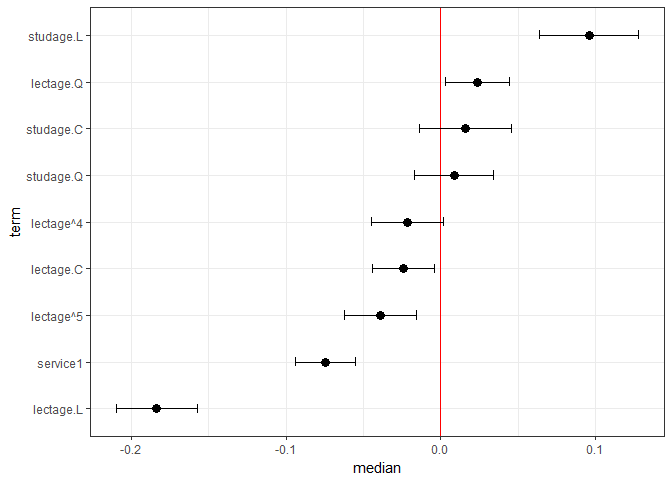
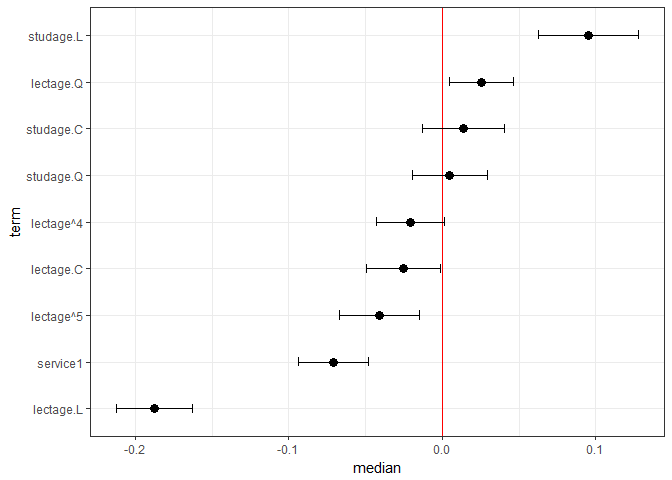
Travis build

diff --git a/README.md b/README.md
@@ -8,8 +8,8 @@ Issues](http://githubbadges.herokuapp.com/jknowles/merTools/issues.svg)](https:/
 Pull-Requests](http://githubbadges.herokuapp.com/jknowles/merTools/pulls.svg?style=flat)](https://github.com/jknowles/merTools/pulls)
 [![CRAN\_Status\_Badge](http://www.r-pkg.org/badges/version/merTools)](https://cran.r-project.org/package=merTools)
 [![Downloads](http://cranlogs.r-pkg.org/badges/merTools)](https://cran.r-project.org/package=merTools)
-<https://cranlogs.r-pkg.org/badges/grand-total/merTools> [![Research
-software
+[![Downloads](http://cranlogs.r-pkg.org/badges/grand-total/merTools)](https://cran.r-project.org/package=merTools)
+[![Research software
 impact](http://depsy.org/api/package/cran/merTools/badge.svg)](http://depsy.org/package/r/merTools)
 
 <!-- README.md is generated from README.Rmd. Please edit that file -->
@@ -146,16 +146,16 @@ standard objects produced by `lm` and
 predictInterval(m1, newdata = InstEval[1:10, ], n.sims = 500, level = 0.9, 
                 stat = 'median')
 #>         fit      upr       lwr
-#> 1  3.228134 5.185694 1.0159918
-#> 2  3.072357 5.158846 1.2301763
-#> 3  3.343040 5.533148 1.3992554
-#> 4  3.102235 5.030169 0.9379611
-#> 5  3.138072 5.292995 1.4315204
-#> 6  3.134039 5.179843 1.0842003
-#> 7  4.217092 6.246719 2.3830875
-#> 8  3.698182 5.664988 1.8109667
-#> 9  3.836403 5.800780 1.7064932
-#> 10 3.325114 5.293382 1.4322462
+#> 1  3.125394 4.979246 1.1166373
+#> 2  3.304650 5.192903 1.2958078
+#> 3  3.421564 5.513007 1.3941391
+#> 4  3.098004 5.018878 0.8932288
+#> 5  3.253312 5.338664 1.1236043
+#> 6  3.199142 5.166880 1.1563780
+#> 7  4.067185 6.313856 1.9312797
+#> 8  3.766062 5.746171 1.7210402
+#> 9  3.744515 5.681148 1.7479590
+#> 10 3.325182 5.357726 1.1783253
 ```
 
 Note that `predictInterval` is slower because it is computing
@@ -176,47 +176,47 @@ interval.
 ``` r
 predictInterval(m1, newdata = InstEval[1:10, ], n.sims = 200, level = 0.9, 
                 stat = 'median', which = "all")
-#>      effect          fit      upr       lwr obs
-#> 1  combined  3.017337597 5.088024  1.024675   1
-#> 2  combined  3.228086300 5.120228  1.358134   2
-#> 3  combined  3.324246517 5.271679  1.494965   3
-#> 4  combined  3.080904426 5.203921  1.335800   4
-#> 5  combined  3.455020453 5.255384  1.791524   5
-#> 6  combined  3.362408634 5.333071  1.337383   6
-#> 7  combined  4.062680211 6.075195  2.249946   7
-#> 8  combined  3.741245572 5.636748  1.900005   8
-#> 9  combined  3.744926075 5.750071  1.965396   9
-#> 10 combined  3.322611479 5.290863  1.293424  10
-#> 11        s  0.346816992 2.520135 -1.949796   1
-#> 12        s  0.235268042 2.169141 -1.515011   2
-#> 13        s  0.189859225 2.211509 -1.647229   3
-#> 14        s  0.149037477 1.915774 -1.542856   4
-#> 15        s  0.015144457 1.718275 -2.051475   5
-#> 16        s -0.036161352 1.840863 -2.028481   6
-#> 17        s  0.325294783 2.180777 -1.580737   7
-#> 18        s  0.309113196 1.957690 -1.624536   8
-#> 19        s  0.361351145 1.988621 -1.606489   9
-#> 20        s  0.336967092 2.284692 -1.432369  10
-#> 21        d -0.228257150 1.743273 -2.069172   1
-#> 22        d -0.004238389 1.729515 -1.747685   2
-#> 23        d -0.021712554 2.091915 -2.118753   3
-#> 24        d -0.167673934 1.733865 -2.253262   4
-#> 25        d  0.092775221 1.788870 -1.811353   5
-#> 26        d  0.119258232 1.933844 -1.880734   6
-#> 27        d  0.877964479 2.272196 -0.993148   7
-#> 28        d  0.149934195 2.220833 -1.626118   8
-#> 29        d  0.026511469 2.025732 -1.661577   9
-#> 30        d -0.323192852 1.716854 -2.160615  10
-#> 31    fixed  3.106300528 5.007124  1.182941   1
-#> 32    fixed  3.287768191 5.076319  1.530694   2
-#> 33    fixed  3.333243653 5.061887  1.557717   3
-#> 34    fixed  3.175918917 4.767824  1.258340   4
-#> 35    fixed  3.440728856 5.260298  1.628944   5
-#> 36    fixed  3.267695980 5.016296  1.534028   6
-#> 37    fixed  3.166493821 5.063095  1.204425   7
-#> 38    fixed  3.253947246 5.202220  1.468126   8
-#> 39    fixed  3.334121205 5.147137  1.489619   9
-#> 40    fixed  3.133976129 5.181007  1.285953  10
+#>      effect         fit      upr        lwr obs
+#> 1  combined  3.05142664 4.893535  1.1453327   1
+#> 2  combined  3.26515473 5.228517  0.9245461   2
+#> 3  combined  3.39424116 5.445855  1.3459129   3
+#> 4  combined  2.95792564 5.151298  1.2972070   4
+#> 5  combined  3.28378686 5.334808  1.1797896   5
+#> 6  combined  3.33398777 5.467897  1.3173296   6
+#> 7  combined  4.31607723 6.236707  2.3684152   7
+#> 8  combined  3.78177816 5.915230  1.9452920   8
+#> 9  combined  3.78801812 6.137100  1.8042376   9
+#> 10 combined  3.40311223 5.472319  1.3328570  10
+#> 11        s  0.33120450 2.635771 -1.8232921   1
+#> 12        s  0.07722743 2.135277 -1.7939259   2
+#> 13        s  0.17659021 2.199019 -1.9514854   3
+#> 14        s  0.18544864 1.866820 -1.6960335   4
+#> 15        s -0.25029379 1.753376 -2.0009388   5
+#> 16        s  0.07575502 1.821340 -1.8900120   6
+#> 17        s  0.37605480 2.665245 -1.5634669   7
+#> 18        s  0.19175873 2.250059 -1.6432148   8
+#> 19        s  0.27428472 2.377856 -1.4729972   9
+#> 20        s  0.30033064 1.989653 -1.7652454  10
+#> 21        d -0.13550930 1.893747 -2.2727313   1
+#> 22        d -0.21943931 2.122796 -2.1435895   2
+#> 23        d  0.02686489 1.896004 -1.9601462   3
+#> 24        d -0.30799468 1.730694 -2.0044624   4
+#> 25        d  0.02167456 1.907354 -1.9105378   5
+#> 26        d -0.03063146 2.006059 -1.8768102   6
+#> 27        d  0.76043305 2.710346 -1.3152748   7
+#> 28        d -0.02853018 2.228498 -1.8649234   8
+#> 29        d  0.03933386 1.955542 -1.7880232   9
+#> 30        d -0.41025679 2.022148 -1.9079259  10
+#> 31    fixed  3.21823828 5.004409  0.9239508   1
+#> 32    fixed  3.17739019 5.092532  1.6046582   2
+#> 33    fixed  3.30796530 5.251162  1.2900951   3
+#> 34    fixed  3.06731437 4.756057  1.2541274   4
+#> 35    fixed  3.33175950 5.231223  1.1547966   5
+#> 36    fixed  3.45077676 5.089393  1.1347821   6
+#> 37    fixed  3.06641488 4.910878  1.2608331   7
+#> 38    fixed  3.24223202 5.085719  1.6450764   8
+#> 39    fixed  3.47941329 5.623999  1.4291720   9
+#> 40    fixed  3.14623403 4.992673  1.2811486  10
 ```
 
 This can lead to some useful plotting:
@@ -266,12 +266,12 @@ fixed and random effect parameters.
 feSims <- FEsim(m1, n.sims = 100)
 head(feSims)
 #>          term        mean      median         sd
-#> 1 (Intercept)  3.22372478  3.22402139 0.01993324
-#> 2    service1 -0.06995190 -0.07088853 0.01375080
-#> 3   lectage.L -0.18447576 -0.18404096 0.01527631
-#> 4   lectage.Q  0.02396921  0.02483603 0.01375510
-#> 5   lectage.C -0.02272901 -0.02457700 0.01303510
-#> 6   lectage^4 -0.02022400 -0.01999282 0.01258985
+#> 1 (Intercept)  3.22306436  3.22345526 0.01995396
+#> 2    service1 -0.06979601 -0.07113286 0.01297003
+#> 3   lectage.L -0.18769609 -0.18658318 0.01621428
+#> 4   lectage.Q  0.02251329  0.02154975 0.01222164
+#> 5   lectage.C -0.02182935 -0.02134305 0.01183856
+#> 6   lectage^4 -0.01800829 -0.01789510 0.01300245
 ```
 
 And we can also plot
@@ -288,13 +288,13 @@ We can also quickly make caterpillar plots for the random-effect terms:
 ``` r
 reSims <- REsim(m1, n.sims = 100)
 head(reSims)
-#>   groupFctr groupID        term         mean      median        sd
-#> 1         s       1 (Intercept)  0.156696049  0.16667284 0.3378410
-#> 2         s       2 (Intercept) -0.064746410 -0.04483635 0.2977927
-#> 3         s       3 (Intercept)  0.300071420  0.29962286 0.2640250
-#> 4         s       4 (Intercept)  0.229157548  0.23848022 0.2658498
-#> 5         s       5 (Intercept) -0.005303968 -0.01841906 0.2876036
-#> 6         s       6 (Intercept)  0.034281375  0.05637082 0.2502556
+#>   groupFctr groupID        term        mean      median        sd
+#> 1         s       1 (Intercept)  0.17849937  0.19083849 0.2789109
+#> 2         s       2 (Intercept) -0.04530464 -0.03605309 0.3276079
+#> 3         s       3 (Intercept)  0.31172494  0.30584665 0.2902461
+#> 4         s       4 (Intercept)  0.23045733  0.21928685 0.2728494
+#> 5         s       5 (Intercept)  0.03069242  0.04029338 0.3251431
+#> 6         s       6 (Intercept)  0.08975814  0.06813835 0.2409531
 ```
 
 ``` r
@@ -361,11 +361,11 @@ impSim <- REimpact(m1, InstEval[7, ], groupFctr = "d", breaks = 5,
 #> Warning: executing %dopar% sequentially: no parallel backend registered
 impSim
 #>   case bin   AvgFit     AvgFitSE nobs
-#> 1    1   1 2.782701 3.005778e-04  193
-#> 2    1   2 3.252176 6.491203e-05  240
-#> 3    1   3 3.554695 5.452947e-05  254
-#> 4    1   4 3.844761 6.082597e-05  265
-#> 5    1   5 4.215359 1.934479e-04  176
+#> 1    1   1 2.792772 2.842321e-04  193
+#> 2    1   2 3.263785 6.273483e-05  240
+#> 3    1   3 3.557189 5.018429e-05  254
+#> 4    1   4 3.845991 6.175618e-05  265
+#> 5    1   5 4.224282 1.855857e-04  176
 ```
 
 The result of `REimpact` shows the change in the `yhat` as the case we
